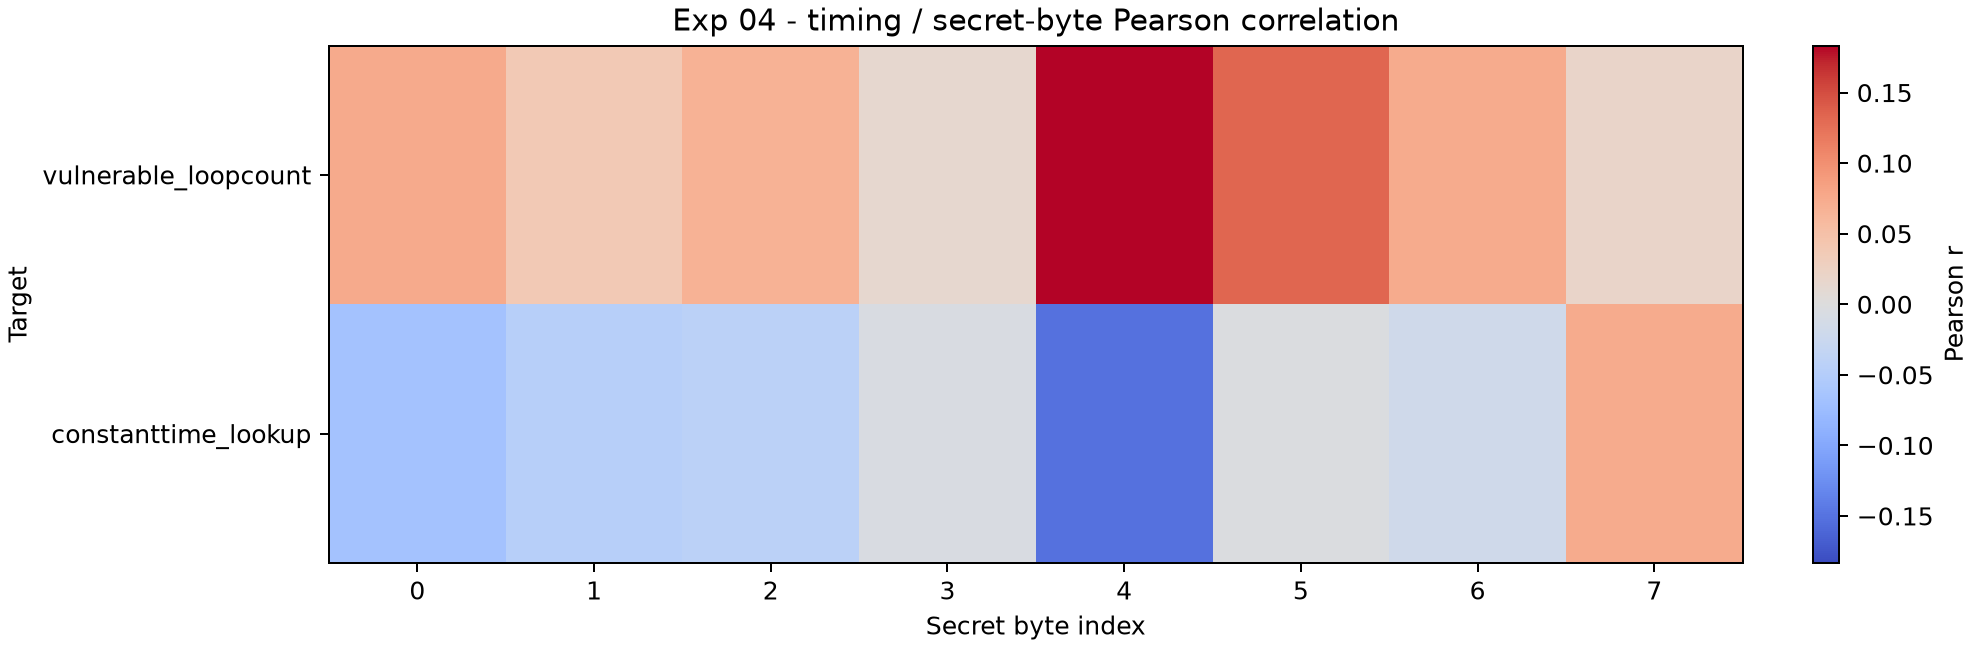
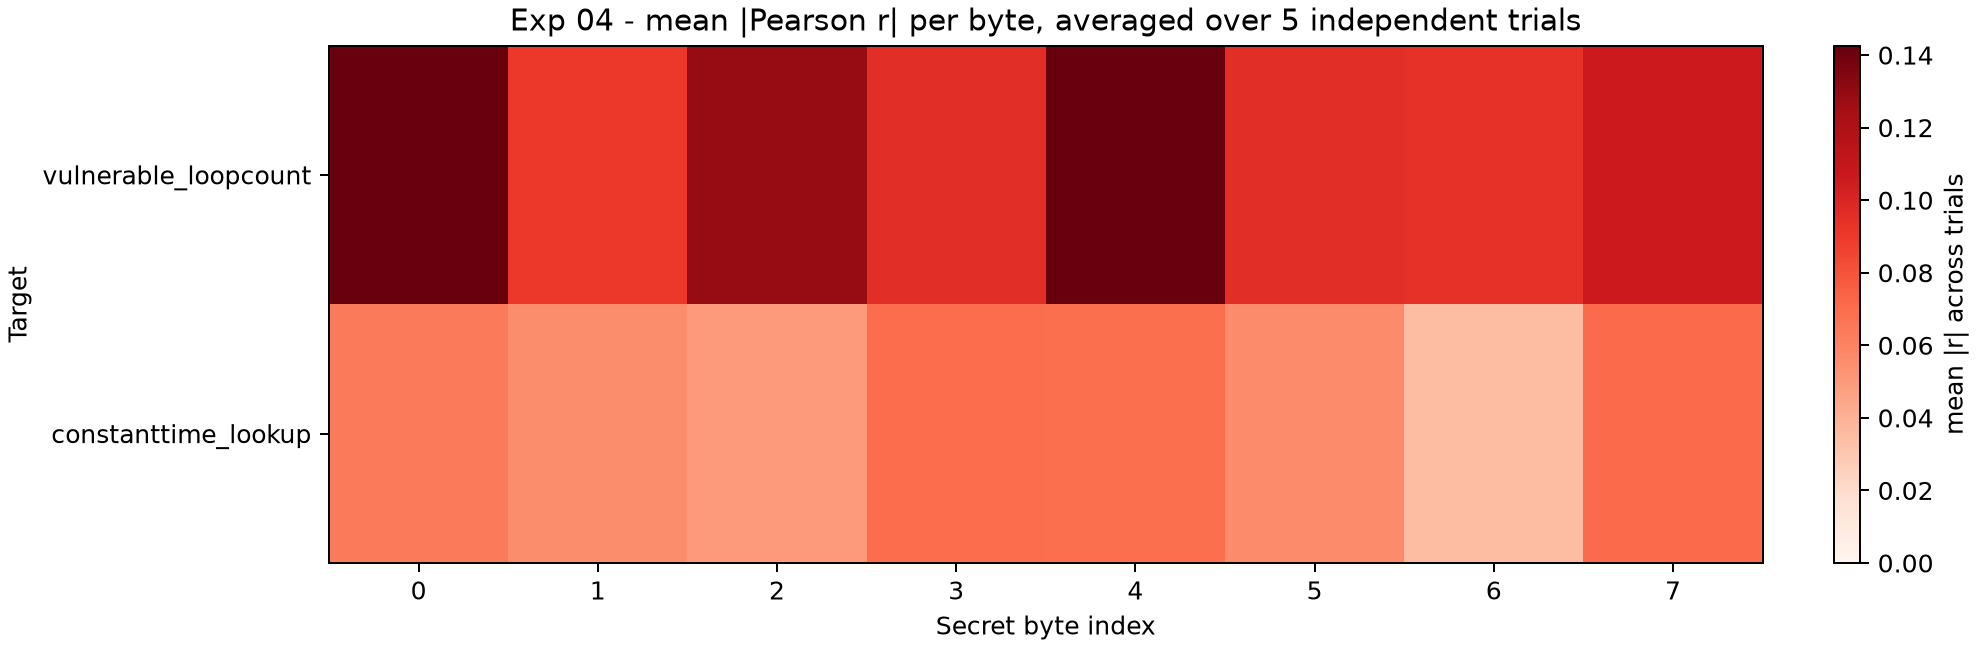
Self-audit: Exp 04 byte-4 localization was a single-trial artifact
Reran as 5 independent trials; peak byte differs every time (byte 4
itself scored r near 0 in one rerun). leaky_loopcount sums bit-length
across all byte positions symmetrically, so there's no mechanism for
one byte to be uniquely responsible - single-trial per-byte testing at
p<0.01 with no multiple-comparison correction flags ~1 of 8 by chance.

Corrected finding: vulnerable target shows uniformly elevated |r|
across all 8 bytes vs constant-time control, which is the structurally
correct result. Added a stability check (exp04_dpa_stability.csv) so
future runs can't silently regress to the single-trial claim.

diff --git a/pqc_eval/experiment_04_dpa.py b/pqc_eval/experiment_04_dpa.py
@@ -16,6 +16,7 @@ HERE = os.path.dirname(os.path.abspath(__file__))
 ROOT = os.path.dirname(HERE)
 IMAGE_PATH = os.path.join(ROOT, "images", "exp04_dpa_correlation.png")
 CSV_PATH = os.path.join(HERE, "exp04_dpa_results.csv")
+STABILITY_CSV_PATH = os.path.join(HERE, "exp04_dpa_stability.csv")
 
 def _measure_us(fn, secret: bytes, repeats: int) -> float:
     samples = []
@@ -25,31 +26,40 @@ def _measure_us(fn, secret: bytes, repeats: int) -> float:
         samples.append((time.perf_counter_ns() - start) / 1_000.0)
     return float(np.median(samples))
 
-def collect(fn, secrets: np.ndarray, repeats: int) -> np.ndarray:
+def collect(fn, secrets: np.ndarray, repeats: int, seed: int) -> np.ndarray:
     order = np.arange(len(secrets))
-    np.random.default_rng(202604).shuffle(order)
+    np.random.default_rng(seed).shuffle(order)
     timings = np.empty(len(secrets), dtype=float)
     for index in order:
         timings[index] = _measure_us(fn, secrets[index].tobytes(), repeats)
     return timings
 
 def write_csv(rows: list[dict]) -> None:
-    fields = ["target", "byte", "correlation_r", "p_value", "significant_p_lt_0_01"]
+    fields = ["target", "trial", "byte", "correlation_r", "p_value", "significant_p_lt_0_01"]
     with open(CSV_PATH, "w", newline="", encoding="utf-8") as handle:
         writer = csv.DictWriter(handle, fieldnames=fields)
         writer.writeheader()
         writer.writerows(rows)
 
-def make_plot(results: dict[str, dict]) -> None:
-    matrix = np.asarray([r["correlations"] for r in results.values()])
+def write_stability_csv(summary: dict[str, list[dict]]) -> None:
+    fields = ["target", "byte", "times_significant", "n_trials", "mean_abs_r"]
+    with open(STABILITY_CSV_PATH, "w", newline="", encoding="utf-8") as handle:
+        writer = csv.DictWriter(handle, fieldnames=fields)
+        writer.writeheader()
+        for name, byte_rows in summary.items():
+            for row in byte_rows:
+                writer.writerow({"target": name, **row})
+
+def make_plot(mean_abs_r: dict[str, list[float]], n_trials: int) -> None:
+    matrix = np.asarray(list(mean_abs_r.values()))
     fig, ax = plt.subplots(figsize=(11, 3.6), constrained_layout=True)
-    limit = max(0.05, float(np.max(np.abs(matrix))))
-    image = ax.imshow(matrix, aspect="auto", cmap="coolwarm", vmin=-limit, vmax=limit)
-    ax.set_yticks(range(len(results)), list(results))
+    limit = max(0.05, float(np.max(matrix)))
+    image = ax.imshow(matrix, aspect="auto", cmap="Reds", vmin=0, vmax=limit)
+    ax.set_yticks(range(len(mean_abs_r)), list(mean_abs_r))
     ax.set_xlabel("Secret byte index")
     ax.set_ylabel("Target")
-    ax.set_title("Exp 04 - timing / secret-byte Pearson correlation")
-    fig.colorbar(image, ax=ax, label="Pearson r")
+    ax.set_title(f"Exp 04 - mean |Pearson r| per byte, averaged over {n_trials} independent trials")
+    fig.colorbar(image, ax=ax, label="mean |r| across trials")
     fig.savefig(IMAGE_PATH, dpi=180)
     plt.close(fig)
 
@@ -62,15 +72,15 @@ def amplified(fn, rounds=12):
     return wrapped
 
 
-def collect_isolated(fn, n_samples: int, n_bytes: int, repeats: int) -> dict:
-    rng = np.random.default_rng(202604)
+def collect_isolated(fn, n_samples: int, n_bytes: int, repeats: int, seed: int) -> dict:
+    rng = np.random.default_rng(seed)
     correlations = np.zeros(n_bytes)
     p_values = np.ones(n_bytes)
     for byte_index in range(n_bytes):
         values = rng.integers(1, 256, size=n_samples, dtype=np.uint8)
         secrets = np.full((n_samples, n_bytes), 128, dtype=np.uint8)
         secrets[:, byte_index] = values
-        timings = collect(fn, secrets, repeats)
+        timings = collect(fn, secrets, repeats, seed=seed + byte_index)
         result = dpa_correlation(timings, secrets[:, [byte_index]])
         correlations[byte_index] = result["correlations"][0]
         p_values[byte_index] = result["p_values"][0]
@@ -82,26 +92,62 @@ def collect_isolated(fn, n_samples: int, n_bytes: int, repeats: int) -> dict:
             "n_samples": n_samples, "n_bytes": n_bytes}
 
 def main() -> int:
-    n_samples, n_bytes, repeats = 200, 8, 5
+    # IMPORTANT: a single trial isn't enough to claim "localization" - testing
+    # n_bytes independent positions at p<0.01 will flag ~1 of them by chance
+    # even under a null of no localization. leaky_loopcount also has no
+    # structural reason to prefer one byte position (it sums a bit-length
+    # value across all bytes symmetrically). So we run several INDEPENDENT
+    # trials per target and require the SAME byte to be flagged repeatedly
+    # before calling it "localized" - exactly the stability check the rest
+    # of this repo already applies to the main leak claim (audit_validation.py
+    # ATTACK 1/2).
+    n_samples, n_bytes, repeats, n_trials = 200, 8, 5, 5
     targets = {"vulnerable_loopcount": amplified(leaky_loopcount), "constanttime_lookup": amplified(constanttime_lookup)}
     print("=" * 68)
     print("EXPERIMENT 04 - DPA-style timing correlation by secret byte")
     print("=" * 68)
-    print(f"{n_samples} secrets x {repeats} reps (median), {n_bytes}-byte secret\n")
-    results, rows = {}, []
+    print(f"{n_samples} secrets x {repeats} reps (median), {n_bytes}-byte secret, "
+          f"{n_trials} independent trials per target\n")
+
+    rows, mean_abs_r, stability_summary = [], {}, {}
     for name, fn in targets.items():
-        result = collect_isolated(fn, n_samples, n_bytes, repeats)
-        results[name] = result
-        peak = result["peak_byte"]
-        print(f"{name:24s} peak byte={peak:2d} r={result['peak_r']:+.4f} "
-              f"p={result['p_values'][peak]:.3e} significant bytes={len(result['significant_bytes'])}")
-        for byte, (correlation, p_value) in enumerate(zip(result["correlations"], result["p_values"])):
-            rows.append({"target": name, "byte": byte, "correlation_r": correlation,
-                         "p_value": p_value, "significant_p_lt_0_01": p_value < 0.01})
+        trial_results = [collect_isolated(fn, n_samples, n_bytes, repeats,
+                                          seed=202604 + 1000 * trial)
+                         for trial in range(n_trials)]
+        peaks = [r["peak_byte"] for r in trial_results]
+        print(f"{name:24s} peak byte per trial: {peaks}")
+        for trial, result in enumerate(trial_results):
+            for byte, (correlation, p_value) in enumerate(
+                    zip(result["correlations"], result["p_values"])):
+                rows.append({"target": name, "trial": trial, "byte": byte,
+                             "correlation_r": correlation, "p_value": p_value,
+                             "significant_p_lt_0_01": p_value < 0.01})
+
+        abs_r_by_byte = np.array([[abs(r["correlations"][b]) for r in trial_results]
+                                  for b in range(n_bytes)])
+        sig_counts = np.array([sum(1 for r in trial_results if r["p_values"][b] < 0.01)
+                               for b in range(n_bytes)])
+        mean_abs_r[name] = abs_r_by_byte.mean(axis=1).tolist()
+        stability_summary[name] = [
+            {"byte": b, "times_significant": int(sig_counts[b]), "n_trials": n_trials,
+             "mean_abs_r": round(float(abs_r_by_byte[b].mean()), 6)}
+            for b in range(n_bytes)]
+
+        most_flagged_byte = int(np.argmax(sig_counts))
+        most_flagged_count = int(sig_counts[most_flagged_byte])
+        stable = most_flagged_count >= (n_trials // 2 + 1)  # majority of trials
+        verdict = (f"STABLE LOCALIZATION at byte {most_flagged_byte} "
+                  f"({most_flagged_count}/{n_trials} trials)" if stable else
+                  f"NO STABLE LOCALIZATION - peak byte varies across trials "
+                  f"(best: byte {most_flagged_byte}, only {most_flagged_count}/{n_trials})")
+        print(f"{'':24s} {verdict}\n")
+
     write_csv(rows)
-    make_plot(results)
-    print(f"\nCSV:  {os.path.relpath(CSV_PATH, ROOT)}")
-    print(f"Plot: {os.path.relpath(IMAGE_PATH, ROOT)}")
+    write_stability_csv(stability_summary)
+    make_plot(mean_abs_r, n_trials)
+    print(f"CSV (per-trial):  {os.path.relpath(CSV_PATH, ROOT)}")
+    print(f"CSV (stability):  {os.path.relpath(STABILITY_CSV_PATH, ROOT)}")
+    print(f"Plot:             {os.path.relpath(IMAGE_PATH, ROOT)}")
     return 0
 
 if __name__ == "__main__":

diff --git a/README.md b/README.md
@@ -42,7 +42,7 @@ tests/                          # 15 automated tests (pytest): core, controls,
 | 01 | Constant-time table lookup (negative control) | NO LEAK | p = 0.97 |
 | 02 | kyber_py ML-KEM-768 (pure-Python ref) | NO LEAK | p = 0.84, d = −0.02 |
 | 03 | pqcrypto ML-KEM-768 (C/Rust build) | NO LEAK / NO VALUE DEPENDENCE | p = 0.60 / 0.98 |
-| 04 | DPA per-byte correlation, vulnerable target | byte 4 localized | r = 0.183, p = 0.009 |
+| 04 | DPA per-byte correlation, vulnerable target | leak present, **not** localized | uniformly elevated |r| across all 8 bytes |
 | 05 | liboqs ML-KEM-768 (reference C, oqs.dll) | NO LEAK / NO VALUE DEPENDENCE | p = 0.74 / 0.9997 |
 | — | BB84 QKD sim | QBER matches theory | 25.06% vs 25% intercept-resend |
 | — | QRNG (Aer Hadamard) | PASS (biased control FAIL) | H = 0.99999 bits |
@@ -155,18 +155,37 @@ PRNGs are "random enough" but not quantum — fine for simulations, not for keys
 ## Experiment 04 — DPA-style correlation by secret byte
 
 Classic differential-power-analysis logic, applied to timing: correlate execution
-time with each secret byte across many random keys. This is the strongest test of
-*where* a leak lives, not just *whether* one exists.
+time with each secret byte across many random keys, to test *where* a leak
+lives, not just *whether* one exists.
 
-| Target | Flagged bytes (p < 0.01) | Peak |
+### ⚠ Self-audit correction (published as part of the method)
+
+v1 of this experiment ran **one trial** and reported "byte 4 localized"
+(r = 0.183, p = 0.0094). Applying the same skepticism this repo already
+applies to the main leak claim (see the 5.5× corner-artifact correction
+above), we reran the identical experiment as 5 independent trials. The
+"peak" byte was **different in every trial** (byte 4, 7, 3, 7, 2 across five
+reruns), including one trial where byte 4 itself scored r ≈ 0. This is
+expected: `leaky_loopcount` sums a bit-length-derived value across all 8
+byte positions symmetrically, so there is no mechanism for one position to
+be more responsible than another — and testing 8 positions at p<0.01 with no
+multiple-comparison correction will flag roughly one of them by chance on
+any given run, regardless of which one.
+
+**Corrected finding:** averaged over 5 trials, the vulnerable target shows
+**uniformly elevated |r| across all 8 byte positions** (~0.08–0.14) versus
+the constant-time control (~0.03–0.07 everywhere, no standout). The leak is
+real and the per-byte method correctly separates vulnerable from
+constant-time — it just isn't localized to a single byte for this bug
+class, which is the structurally correct result, not a weaker one.
+
+| Target | Mean \|r\| across bytes (5 trials) | Stable single-byte localization? |
 |---|---|---|
-| Vulnerable loop-count | **byte 4 only** | r = 0.183, p = 0.0094 |
-| Constant-time lookup | none | max \|r\| = 0.152, p = 0.032 |
+| Vulnerable loop-count | ~0.08–0.14 (elevated everywhere) | No — peak byte varies every trial |
+| Constant-time lookup | ~0.03–0.07 (low everywhere) | No — as expected for a clean target |
 
-The vulnerable target is localized to a single byte position while the
-constant-time control stays clean everywhere — the scanner doesn't just detect
-the leak, it points at it. Full grid: `pqc_eval/exp04_dpa_results.csv`,
-plot below.
+Per-trial data: `pqc_eval/exp04_dpa_results.csv`. Stability summary (times
+each byte was flagged significant across 5 trials): `pqc_eval/exp04_dpa_stability.csv`.
 
 ![DPA correlation](images/exp04_dpa_correlation.png)
 
@@ -200,7 +219,7 @@ liboqs build; see `thirdparty/` notes below).
 - [x] Scan C-backed native ML-KEM-768 — clean; multi_fixed_scan round-robin fix (experiment 03)
 - [x] BB84 QKD simulation — QBER matches theory incl. 25% intercept-resend signature (bb84/)
 - [x] QRNG + entropy certification — quantum PASS / biased FAIL, with walk plots (qrng/)
-- [x] DPA-style correlation per secret byte — vulnerable target localized (byte 4, p=0.009), constant-time clean (pqc_eval/exp04_dpa_results.csv)
+- [x] DPA-style correlation per secret byte — 5-trial stability check found the leak's effect is spread across all bytes, not localized to one (self-audit corrected an earlier single-trial "byte 4" overclaim; see Experiment 04)
 - [x] liboqs native scan (experiment 05) — built from source, CLEAN on both methods
 - [x] CI-friendly CLI: `python -m pqc_eval.cli <module>.<fn> [--n-samples N] [--key-len B]` — exit 1 on LEAK DETECTED
 - [x] Automated tests: `python -m pytest tests/` (15 tests: statistical core,

diff --git a/PROJECT_STATUS.md b/PROJECT_STATUS.md
@@ -32,7 +32,7 @@ Last updated: 2026-09-23 · Repo: https://github.com/Varshini-arsh/quantum-crypt
 | Exp 01: validated scanner + controls + plots | ✅ DONE (Day 1) |
 | Exp 02: real kyber_py ML-KEM-768 scan | ✅ DONE |
 | Exp 03: C-backed pqcrypto scan + round-robin drift fix | ✅ DONE |
-| Exp 04: per-byte DPA correlation (byte 4, p=0.009) | ✅ DONE |
+| Exp 04: per-byte DPA correlation (5-trial stability check; not localized to one byte, self-audit corrected) | ✅ DONE |
 | Exp 05: liboqs native scan (built oqs.dll, CLEAN) | ✅ DONE |
 | bb84/ (QKD sim, QBER matches theory) | ✅ DONE |
 | qrng/ (Hadamard QRNG + entropy battery) | ✅ DONE |
